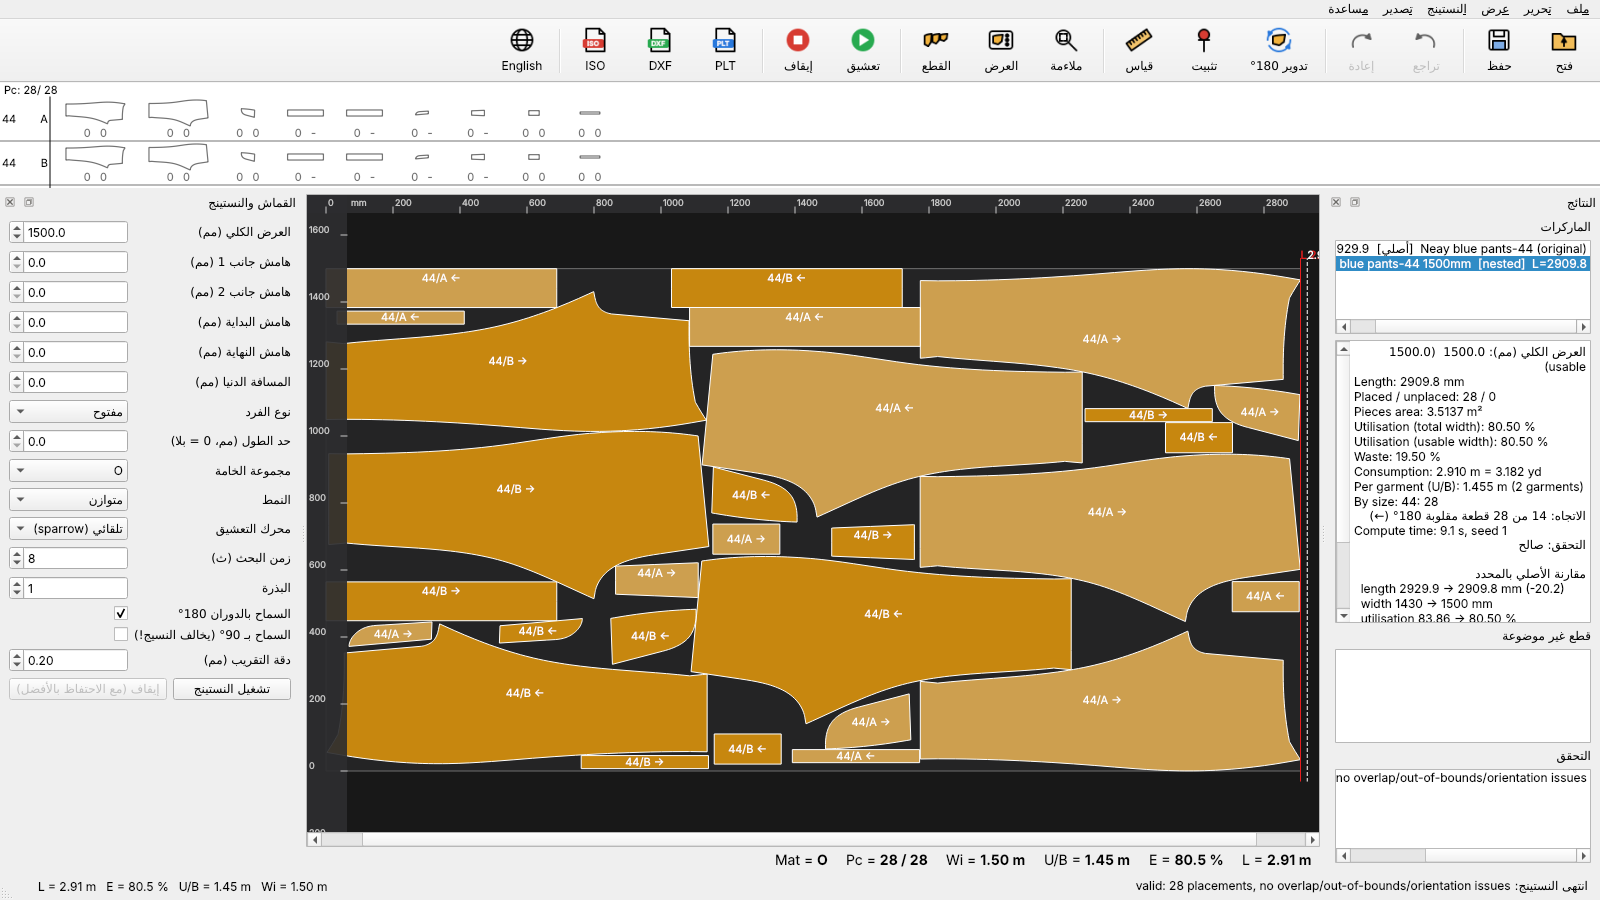
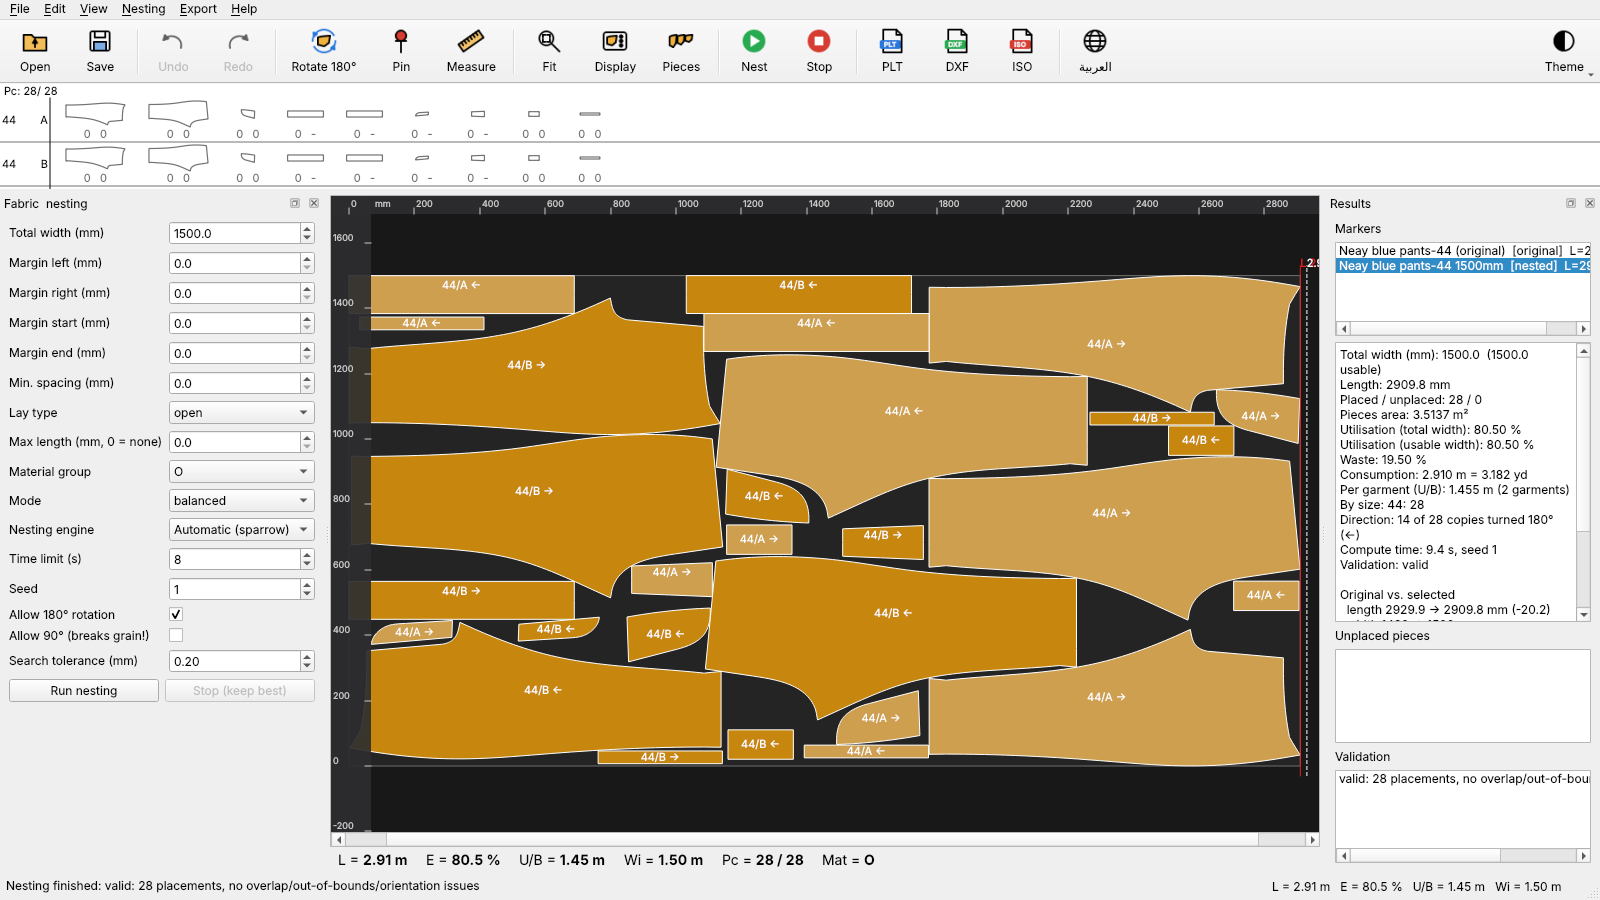
Solid plot lines, view rotation, theme button, clearer pieces table
- PLT: new 'Line type' setting, default solid (LT). GRAFIS' own header
  LT1 selects HP-GL dash pattern 1 and printed dotted lines on the
  user's plotter; LT1 stays available and is used to compare with the
  GRAFIS reference file.
- Display options: rotate the view 90 / 180 deg (screen only); rulers and
  direction arrows follow the rotation, fit keeps it.
- Theme: own button with light/dark/gray menu at the end of the toolbar.
- Pieces table: clearer headers (normal / mirrored copies, sizes
  available, grain angle) with explanatory tooltips.

Claude-Session: https://claude.ai/code/session_01KyM7mPRv9LTYctdLGU5jGc

diff --git a/level7/ui/marker_view.py b/level7/ui/marker_view.py
@@ -34,7 +34,7 @@ def color_for(key: str) -> QColor:
 DEFAULT_OPTIONS = {
     # "Display in the pieces" (GRAFIS: Marker display options)
     "symbols": False, "size_bundle": True, "buffer": True, "marking": False, "grain": False, "internal": False,
-    "piece_names": False, "direction": True,     # direction arrow (→ / ← = turned 180°) next to the label
+    "piece_names": False, "direction": True, "view_rot90": False, "view_rot180": False,     # direction arrow (→ / ← = turned 180°) next to the label
     # "Display auxiliary objects"
     "efficiency_mark": True, "last_efficiency": True, "white_marking": True,
     # "Show pieces to be placed"
@@ -139,7 +139,10 @@ class PieceItem(QGraphicsPathItem):
         if o["size_bundle"]:
             arrow = ""
             d = lay_direction(self.piece.grain_angle, pl) if o.get("direction", True) else None
-            arrow = {1: " →", -1: " ←"}.get(d, "")
+            arrow = ""
+            if d is not None:      # arrow as seen on screen (the view may be rotated in the display options)
+                v = self.view.base_transform().map(QPointF(float(d), 0.0))
+                arrow = (" →" if v.x() > 0 else " ←") if abs(v.x()) >= abs(v.y()) else (" ↓" if v.y() > 0 else " ↑")
             lines.append(f"{pl.size}/{bundle_letter(pl.bundle)}{arrow}")
         if o["piece_names"]:
             lines.append(f"{self.piece.name}{' (M)' if pl.mirrored else ''}")
@@ -306,9 +309,12 @@ class MarkerView(QGraphicsView):
             vline(ll, pen, f"{ll / 1000:.2f} m  {le:.1f} %")
 
     def set_options(self, **kw):
+        old = self.view_angle()
         self.options.update(kw)
         if self.marker is not None:
             self.show_marker(self.project, self.marker, self.bad)
+            if self.view_angle() != old:
+                self.zoom_fit()
 
     def refresh(self, bad=None):
         if bad is not None:
@@ -318,12 +324,18 @@ class MarkerView(QGraphicsView):
             it.rebuild()
         self._draw_aux()
 
+    def view_angle(self) -> int:
+        """Screen-only rotation chosen in the display options (90 / 180 / 270); the marker is not changed."""
+        return (90 if self.options.get("view_rot90") else 0) + (180 if self.options.get("view_rot180") else 0)
+
+    def base_transform(self) -> QTransform:
+        return QTransform(1, 0, 0, -1, 0, 0) * QTransform().rotate(self.view_angle())   # Y up, then rotate
+
     def zoom_fit(self):
         if self.marker:
+            self.setTransform(self.base_transform())
             self.fitInView(QRectF(-50, -50, max(self.marker.length, 100) + 100, self.marker.fabric.width + 100),
                            Qt.KeepAspectRatio)
-            t = self.transform()
-            self.setTransform(QTransform(t.m11(), 0, 0, -abs(t.m22()), 0, 0))
             self.centerOn(max(self.marker.length, 100) / 2, self.marker.fabric.width / 2)
 
     def selected_placements(self):
@@ -455,28 +467,30 @@ class MarkerView(QGraphicsView):
         painter.fillRect(0, 0, 40, vh, rb)
         painter.setPen(self.theme["ruler_text"])
         painter.setFont(QFont("Segoe UI", 7))
-        scale = abs(self.transform().m11())
+        t = self.transform()
+        scale = math.hypot(t.m11(), t.m12()) or 1.0
         step = 10.0
-        for s in (10, 20, 50, 100, 200, 500, 1000, 2000):
-            if s * scale >= 60:
-                step = s
+        for st in (10, 20, 50, 100, 200, 500, 1000, 2000):
+            if st * scale >= 60:
+                step = st
                 break
-        x0 = self.mapToScene(0, 0).x()
-        x1 = self.mapToScene(vw, 0).x()
-        v = math.floor(x0 / step) * step
-        while v <= x1:
-            px = self.mapFromScene(QPointF(v, 0)).x()
-            painter.drawLine(px, 12, px, 18)
-            painter.drawText(px + 2, 11, f"{v:g}")
-            v += step
-        ya = self.mapToScene(0, vh).y()
-        yb = self.mapToScene(0, 0).y()
-        v = math.floor(min(ya, yb) / step) * step
-        while v <= max(ya, yb):
-            py = self.mapFromScene(QPointF(0, v)).y()
-            painter.drawLine(34, py, 40, py)
-            painter.drawText(2, py - 2, f"{v:g}")
-            v += step
+
+        def ticks(p0, p1):
+            """Scene axis that varies along the screen segment p0-p1 (works for any quarter-turn view)."""
+            a0, a1 = self.mapToScene(*p0), self.mapToScene(*p1)
+            ax = 0 if abs(a1.x() - a0.x()) >= abs(a1.y() - a0.y()) else 1
+            lo, hi = sorted(((a0.x(), a1.x()) if ax == 0 else (a0.y(), a1.y())))
+            v = math.floor(lo / step) * step
+            while v <= hi:
+                q = QPointF(v, a0.y()) if ax == 0 else QPointF(a0.x(), v)
+                yield v, self.mapFromScene(q)
+                v += step
+        for v, q in ticks((0, 0), (vw, 0)):
+            painter.drawLine(q.x(), 12, q.x(), 18)
+            painter.drawText(q.x() + 2, 11, f"{v:g}")
+        for v, q in ticks((0, 0), (0, vh)):
+            painter.drawLine(34, q.y(), 40, q.y())
+            painter.drawText(2, q.y() - 2, f"{v:g}")
         painter.drawText(44, 11, "mm")
         if self.measure_mode:
             painter.setRenderHint(QPainter.Antialiasing)

diff --git a/level7/ui/i18n.py b/level7/ui/i18n.py
@@ -82,10 +82,10 @@ T = {
     "col_use": ("Use", "استخدام"),
     "col_name": ("Name", "الاسم"),
     "col_mat": ("Material", "الخامة"),
-    "col_count": ("Copies", "نسخ"),
-    "col_mirror": ("Mirrored", "معكوسة"),
-    "col_grain": ("Grain", "النسيج"),
-    "col_sizes": ("Sizes", "المقاسات"),
+    "col_count": ("Normal copies", "نسخ عادية"),
+    "col_mirror": ("Mirrored copies", "نسخ معكوسة"),
+    "col_grain": ("Grain angle", "زاوية النسيج"),
+    "col_sizes": ("Sizes available", "مقاسات متوفرة"),
     "col_size": ("Size", "المقاس"),
     "col_qty": ("Garments", "عدد القطع"),
     "width": ("Total width (mm)", "العرض الكلي (مم)"),
@@ -187,6 +187,22 @@ T = {
                    "the time; the shorter valid marker is kept. Best results from about 2 minutes.",
                    "تلقائي: LEVEL7 يبني ماركرًا صحيحًا أولًا، ثم يقوم محرك sparrow بتقصيره في باقي الوقت، ويُحفظ الأقصر "
                    "الصحيح. أفضل النتائج من حوالي دقيقتين."),
+    "plt_line": ("Line type", "نوع الخط"),
+    "plt_line_solid": ("Solid (recommended)", "متصل (موصى به)"),
+    "plt_line_lt1": ("Dotted LT1 (as GRAFIS' file)", "منقط LT1 (مثل ملف GRAFIS)"),
+    "tip_col_use": ("Include this piece in the marker", "إدخال هذه القطعة في الماركر"),
+    "tip_col_mat": ("Material of the piece (O = upper fabric, F = lining …)", "خامة القطعة (O = القماش الأساسي، F = البطانة …)"),
+    "tip_col_sizes": ("Number of sizes for which the file contains this piece's geometry",
+                      "عدد المقاسات التي يحتوي الملف على شكل هذه القطعة فيها"),
+    "tip_col_count": ("Copies as drawn, per garment (e.g. 1 back)", "عدد النسخ كما هي مرسومة لكل قطعة ملابس (مثال: ظهر واحد)"),
+    "tip_col_mirror": ("Mirror-image copies per garment: the opposite side (left/right). Front 1 + mirrored 1 = left and "
+                       "right front", "عدد النسخ المقلوبة كصورة مرآة لكل قطعة ملابس، أي الجهة المقابلة يمين/يسار. "
+                       "أمام 1 + معكوسة 1 = أمام يمين وأمام يسار"),
+    "tip_col_grain": ("Angle of the grain line in the pattern (90 = vertical); pieces are laid with it along the "
+                      "fabric length", "زاوية خط النسيج في الباترون (90 = رأسي)؛ تُوضع القطعة بحيث يكون موازيًا لطول القماش"),
+    "opt_view_rotation": ("Screen rotation (display only)", "تدوير العرض (الشاشة فقط)"),
+    "opt_view_rot180": ("Rotate view 180°", "تدوير العرض 180°"),
+    "opt_view_rot90": ("Rotate view 90° (vertical marker)", "تدوير العرض 90° (ماركر رأسي)"),
     "cancel": ("Cancel", "إلغاء"),
 }
 

diff --git a/level7/ui/main_window.py b/level7/ui/main_window.py
@@ -344,6 +344,18 @@ class MainWindow(QMainWindow):
             a.setIcon(icon(ic or key))
             tb.addAction(a)
             self.toolbar_items.append((a, key))
+        # theme switch: its own button at the far end of the toolbar (far left in Arabic)
+        from PySide6.QtWidgets import QSizePolicy, QToolButton
+        spacer = QWidget()
+        spacer.setSizePolicy(QSizePolicy.Expanding, QSizePolicy.Preferred)
+        tb.addWidget(spacer)
+        self.theme_button = QToolButton()
+        self.theme_button.setIcon(icon("theme"))
+        self.theme_button.setIconSize(QSize(28, 28))
+        self.theme_button.setToolButtonStyle(Qt.ToolButtonTextUnderIcon)
+        self.theme_button.setPopupMode(QToolButton.InstantPopup)
+        self.theme_button.setMenu(self.m_theme)
+        tb.addWidget(self.theme_button)
         self.toolbar = tb
 
     def set_theme(self, name):
@@ -353,6 +365,7 @@ class MainWindow(QMainWindow):
         self.settings_store.setValue("theme", name)
         for a, key in self.toolbar_items:
             a.setIcon(icon(dict((k, i) for k, i in (x for x in self.TOOLBAR if x)).get(key) or key))
+        self.theme_button.setIcon(icon("theme"))
         self.toolbar.setStyleSheet(self.toolbar.styleSheet())   # re-polish with the new palette
         for w in QApplication.instance().allWidgets():
             w.update()
@@ -376,6 +389,8 @@ class MainWindow(QMainWindow):
         self.act_table.setText(tr("pieces_table"))
         self._retranslate_toolbar()
         self.m_theme.setTitle(tr("theme"))
+        self.theme_button.setText(tr("theme"))
+        self.theme_button.setToolTip(tr("theme"))
         for m, k in self.menus_tr:
             m.setTitle(tr(k))
         for lab, k in self.form_rows:
@@ -387,6 +402,10 @@ class MainWindow(QMainWindow):
         self.left_tabs.setTabText(1, tr("sizes"))
         self.pieces_table.setHorizontalHeaderLabels([tr(k) for k in ("col_use", "col_name", "col_mat", "col_sizes",
                                                                      "col_count", "col_mirror", "col_grain")])
+        for c, k in enumerate(("col_use", "col_name", "col_mat", "col_sizes", "col_count", "col_mirror", "col_grain")):
+            h = self.pieces_table.horizontalHeaderItem(c)
+            if h is not None and k != "col_name":
+                h.setToolTip(tr("tip_" + k))
         self.sizes_table.setHorizontalHeaderLabels([tr("col_size"), tr("col_qty")])
         self.res_labels[0].setText(tr("markers"))
         self.res_labels[1].setText(tr("unplaced"))

diff --git a/level7/ui/display_options.py b/level7/ui/display_options.py
@@ -14,6 +14,7 @@ class DisplayOptionsDialog(QDialog):
                      ("piece_names", "opt_piece_names"), ("direction", "opt_direction"))
     CHECKS_AUX = (("efficiency_mark", "opt_eff_mark"), ("last_efficiency", "opt_last_eff"),
                   ("white_marking", "opt_white"))
+    CHECKS_VIEW = (("view_rot180", "opt_view_rot180"), ("view_rot90", "opt_view_rot90"))
 
     def __init__(self, options: dict, parent=None):
         super().__init__(parent)
@@ -34,6 +35,13 @@ class DisplayOptionsDialog(QDialog):
             cb = QCheckBox(tr(label))
             cb.setChecked(bool(self.opts.get(key)))
             l2.addWidget(cb)
+            self.boxes[key] = cb
+        gv = QGroupBox(tr("opt_view_rotation"))
+        lv = QVBoxLayout(gv)
+        for key, label in self.CHECKS_VIEW:
+            cb = QCheckBox(tr(label))
+            cb.setChecked(bool(self.opts.get(key)))
+            lv.addWidget(cb)
             self.boxes[key] = cb
         g3 = QGroupBox(tr("opt_show_pieces"))
         l3 = QVBoxLayout(g3)
@@ -67,11 +75,12 @@ class DisplayOptionsDialog(QDialog):
         l3.addWidget(self.color)
         grid.addWidget(g1, 0, 0)
         grid.addWidget(g2, 1, 0)
-        grid.addWidget(g3, 0, 1, 2, 1)
+        grid.addWidget(gv, 2, 0)
+        grid.addWidget(g3, 0, 1, 3, 1)
         bb = QDialogButtonBox(QDialogButtonBox.Ok | QDialogButtonBox.Cancel)
         bb.accepted.connect(self.accept)
         bb.rejected.connect(self.reject)
-        grid.addWidget(bb, 2, 0, 1, 2)
+        grid.addWidget(bb, 3, 0, 1, 2)
 
     def result_options(self) -> dict:
         o = dict(self.opts)

diff --git a/tests/test_grafis_reference_plt.py b/tests/test_grafis_reference_plt.py
@@ -42,7 +42,9 @@ def both(tmp_path_factory):
     r = read_grafis(SCB1500)
     sc = marker_scene(r.project, r.project.markers[0])
     out = tmp_path_factory.mktemp("plt") / "l7.plt"
-    st = write_plt(sc, str(out), algotex_grafis_config())
+    cfg = algotex_grafis_config()
+    cfg.line_type = "lt1"                 # GRAFIS' own header; LEVEL7's default is a solid line (LT)
+    st = write_plt(sc, str(out), cfg)
     ref, _ = read_plt(REF)
     ours, labels = read_plt(str(out))
     return ref, ours, labels, st, out
@@ -55,6 +57,15 @@ def test_file_framing_like_grafis(both):
     assert raw.startswith(b"IN\r\nLT1\r\nPA") and ref.startswith(b"IN\r\nLT1\r\nPA")
     assert raw.endswith(b"PU\r\nPG\r\n") and ref.endswith(b"PU\r\nPG\r\n")
     assert b";" not in raw and b"SP" not in raw and not labels and st["skipped_chars"] == []
+
+
+def test_default_line_type_is_solid(tmp_path):
+    r = read_grafis(SCB1500)
+    sc = marker_scene(r.project, r.project.markers[0])
+    out = tmp_path / "solid.plt"
+    write_plt(sc, str(out), algotex_grafis_config())
+    raw = open(out, "rb").read()
+    assert raw.startswith(b"IN\r\nLT\r\nPA")          # LT without a pattern number = continuous line
 
 
 def test_cut_contours_with_notch_slits(both):

diff --git a/level7/ui/plot_settings.py b/level7/ui/plot_settings.py
@@ -78,6 +78,11 @@ class PlotSettingsDialog(QDialog):
         self.preset.addItem(tr("plt_preset_generic"), "generic")
         self.preset.setCurrentIndex(0 if self.cfg.dialect == "grafis" else 1)
         top.addRow(tr("plt_preset"), self.preset)
+        self.line = QComboBox()
+        self.line.addItem(tr("plt_line_solid"), "solid")
+        self.line.addItem(tr("plt_line_lt1"), "lt1")
+        self.line.setCurrentIndex(1 if self.cfg.line_type == "lt1" else 0)
+        top.addRow(tr("plt_line"), self.line)
         lay.addLayout(top)
 
         box = QGroupBox(tr("plt_what"))
@@ -150,12 +155,14 @@ class PlotSettingsDialog(QDialog):
         c = PRESETS[self.preset.itemData(i)]()
         self.cfg = c
         self._load(c)
+        self.line.setCurrentIndex(1 if c.line_type == "lt1" else 0)
         on = enabled_items(c)
         for layer, ch in self.checks.items():
             ch.setChecked(on[layer] or layer == "CUT")
 
     def result_config(self) -> PlotterConfig:
         c = self.cfg
+        c.line_type = self.line.currentData()
         if self.adv.isChecked():
             c.dialect, c.text_mode = self.dialect.currentText(), self.tmode.currentText()
             c.merge_notches = self.merge.isChecked()

diff --git a/level7/exporters/plt.py b/level7/exporters/plt.py
@@ -37,6 +37,8 @@ class PlotterConfig:
     text_mode: str = "label"            # "label" (HP-GL LB) | "strokes" (vector font) | "none"
     text_layers: list = field(default_factory=lambda: ["TEXT", "PIECE_NAME"])
     merge_notches: bool = False         # put notch slits into the cut contour as there-and-back spikes
+    line_type: str = "solid"            # "solid": LT (continuous lines)  "lt1": LT1 as in GRAFIS' file (HP-GL
+    #                                     line pattern 1 = dotted on plotters that honour it)
 
     def save(self, path):
         with open(path, "w", encoding="utf-8") as fh:
@@ -113,7 +115,8 @@ def write_plt(scene: Scene, path: str, cfg: PlotterConfig | None = None) -> dict
     if ext[0] < -1e-6 or ext[1] < -1e-6:
         raise ExportError(f"negative marker coordinates {ext[:2]}; expected origin at lower-left")
     grafis = cfg.dialect == "grafis"
-    out = ["IN", "LT1"] if grafis else ["IN;", "PA;"]
+    lt = "LT1" if cfg.line_type == "lt1" else "LT"
+    out = ["IN", lt] if grafis else ["IN;", f"{lt};", "PA;"]
     cur_pen = None
     stats = {"paths": 0, "labels": 0, "text_strokes": 0, "by_pen": {}, "skipped_chars": set(), "notches_merged": 0}
     paths = list(scene.paths)

diff --git a/tests/test_export_storage.py b/tests/test_export_storage.py
@@ -112,7 +112,7 @@ def test_plt_print_items_switch_layers_without_changing_format(scb, tmp_path):
     n_cut = sum(1 for p in sc.paths if p.layer == "CUT")
     assert st["paths"] == n_cut and st["notches_merged"] == 0 and st["text_strokes"] == 0
     txt = f.read_bytes().decode("ascii")
-    assert txt.startswith("IN\r\nLT1\r\n") and txt.rstrip().endswith("PG") and "SP" not in txt   # same dialect
+    assert txt.startswith("IN\r\nLT\r\n") and txt.rstrip().endswith("PG") and "SP" not in txt   # same dialect
     assert st_full["paths"] > st["paths"]
     # grain + piece names on, seam off: still the GRAFIS dialect, more paths than cut only
     some = apply_items(PRESETS["algotex_grafis"](), {"CUT": True, "GRAIN": True, "PIECE_NAME": True})

diff --git a/level7/ui/icons.py b/level7/ui/icons.py
@@ -132,6 +132,15 @@ def _draw(name: str, p: QPainter, fg: QColor):
         p.drawLine(QPointF(4, 16), QPointF(28, 16))
         p.drawLine(QPointF(6, 10), QPointF(26, 10))
         p.drawLine(QPointF(6, 22), QPointF(26, 22))
+    elif name == "theme":
+        p.drawEllipse(QRectF(5, 5, 22, 22))
+        half = QPainterPath()
+        half.moveTo(16, 5)
+        half.arcTo(QRectF(5, 5, 22, 22), 90, 180)
+        half.closeSubpath()
+        p.setBrush(fg)
+        p.drawPath(half)
+        p.setBrush(Qt.NoBrush)
     elif name == "pieces":
         for i, x in enumerate((3, 12, 21)):
             _piece(p, QRectF(x, 9, 8, 14 - i * 3))
